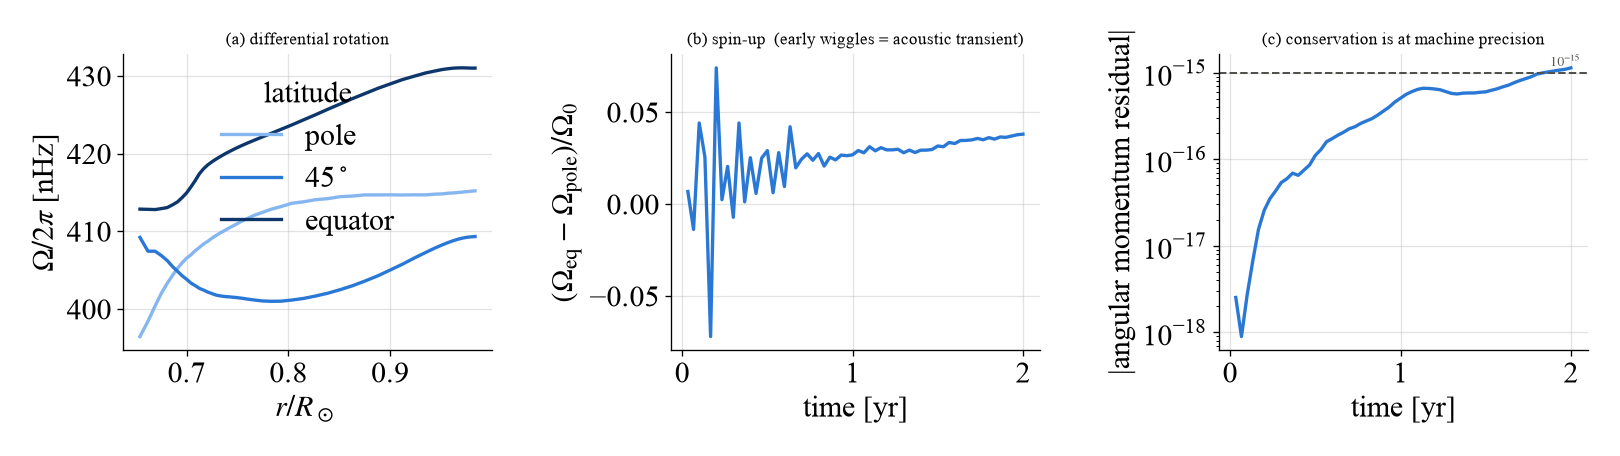
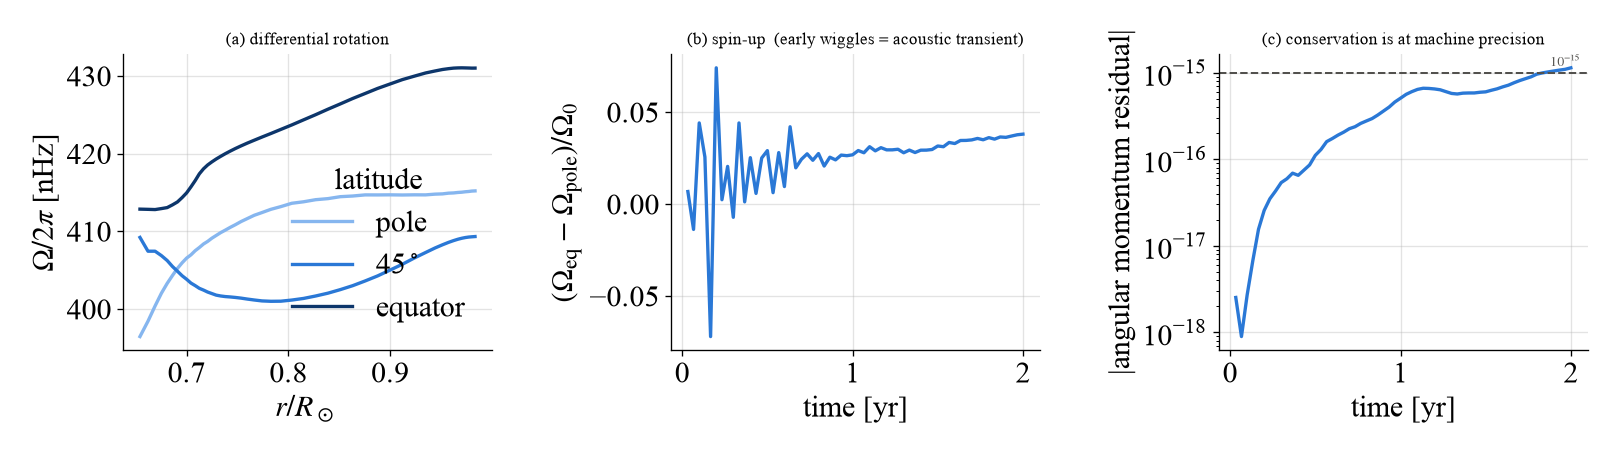
quickstart の図をドキュメントに入れ、run_paris の位置づけを明記した
- tutorial_rempel.rst に quickstart の図を貼り、**これらのスクリプトは
  pip install されるパッケージに含まれない** (clone が要る) ことを明記
- quickstart の (a) を凡例から直接ラベルに変えた (系列 4 つ以下なら
  直接ラベルの方が読みやすく、凡例が曲線と重なる問題も消える)
- run_paris/README.md に「名前の由来と、いずれ改名したいこと」「clone が
  要ること」「投入先はそのつど load と誰の何が走っているかを見て決める
  こと」を追記

Claude-Session: https://claude.ai/code/session_01W9ZMQt1bydtEYJ1n9oEQBY

diff --git a/examples/rempel2006/quickstart.py b/examples/rempel2006/quickstart.py
@@ -122,12 +122,16 @@ def _plot(outdir, rr, th, sol, cfg, h, m, grid):
     om = (cfg.om0 + sol.om1[m:grid.ixg - m, m:grid.jxg - m])/(2*np.pi)*1e9
     fig, ax = plt.subplots(1, 3, figsize=(13.5, 3.8))
 
+    # 系列が 4 つ以下なら凡例より**直接ラベル**の方が読みやすい。
     for (j, lab), c in zip(((0, 'pole'), (len(th)//2, r'45$^\circ$'),
                             (len(th) - 1, 'equator')), blues):
-        ax[0].plot(rr, om[:, j], color=c, label=lab, lw=2)
+        ax[0].plot(rr, om[:, j], color=c, lw=2)
+        ax[0].annotate(lab, xy=(rr[-1], om[-1, j]), xytext=(4, 0),
+                       textcoords='offset points', color=c, fontsize=9,
+                       fontweight='bold', va='center', clip_on=False)
+    ax[0].set_xlim(rr[0], rr[-1] + 0.10*(rr[-1] - rr[0]))
     ax[0].set_xlabel(r'$r/R_\odot$'); ax[0].set_ylabel(r'$\Omega/2\pi$ [nHz]')
-    ax[0].set_title('(a) differential rotation')
-    ax[0].legend(frameon=False, title='latitude', loc='lower right')
+    ax[0].set_title('(a) differential rotation by latitude')
 
     ax[1].plot(h[:, 0], h[:, 1], color=blues[1], lw=2)
     ax[1].set_xlabel('time [yr]')

diff --git a/run_paris/README.md b/run_paris/README.md
@@ -1,11 +1,33 @@
 # run_paris — Rempel 2006 再現ランの投入と測定
 
-paris (AMD EPYC 9354, 64 コア) で走らせるための一式。
-`/scr/a000` は boston と共有だが `/home` は別なので、python は
-`/scr/a000/c0234hotta/venv-paris/bin/python` を使い、投入時に
+> **名前について**: 当初 paris というホストで走らせるための一式だったが、
+> いまはホストに依存しない (絶対パスと `PYTHONPATH` だけ)。共同利用では
+> 紛らわしいので、いずれ `runs/` などに改名したい。
+>
+> **これらはリポジトリのスクリプトで、`pip install` されるパッケージには
+> 含まれない。** 使うにはリポジトリを clone すること。パッケージ本体
+> (`import S2MFD`) だけでも同じことはできる — スクリプトはその使い方の例。
+>
+> 手順の説明はドキュメントの
+> [Rempel (2006) を再現する](https://is-isee.github.io/S2MFD/main/tutorial_rempel.html)
+> にある。
+
+
+## この環境での使い方 (堀田研)
+
+`/scr/a000` は paris / boston / astana で共有だが `/home` は別なので、
+python は `/scr/a000/c0234hotta/venv-paris/bin/python` を使い、投入時に
 `cd /scr/a000/c0234hotta/Repository/S2MFD` と
 `PYTHONPATH=/scr/a000/c0234hotta/Repository/S2MFD` が要る
 (S2MFD は pip install されていない)。ssh の既定 cwd は HOME。
+
+**投入先はそのつど決める。** ルール化せず、投入前に
+
+    ssh <host> "uptime; ps -eo user:20,nlwp,etime,args --sort=-nlwp | head"
+
+で load と**誰の何が走っているか**を見る (`ps` はユーザ名を切り詰めるので
+`user:20` と幅を指定する)。astana は共有ファイルサーバでもあり、
+ほかの解析が走っていることが多い。
 
 ## ドライバ
 

diff --git a/doc/source/tutorial_rempel.rst b/doc/source/tutorial_rempel.rst
@@ -23,9 +23,23 @@ Rempel (2006) を再現する
 
 を表示して図を保存する。**実測 5 分** (最初の 1 回は numba の JIT を含む)。
 
+.. figure:: _static/figures/quickstart.png
+   :width: 100%
+
+   ``quickstart.py`` が出す図。(a) 2 年ではまだ差動回転が育っていない。
+   (b) 最初の振動は音波の過渡。(c) **角運動量の残差が**
+   :math:`10^{-15}` **以下**\ 、つまり倍精度の丸め誤差の水準にある。
+
 .. important::
    この格子と年数では**論文値と合わないのが正しい**\ 。緩和は 108
    :math:`\times` 72 でも 40 年かかる。合わないことを確かめるのが目的。
+
+.. note::
+   ``run_paris/`` と ``examples/`` の各スクリプトは**リポジトリに入って
+   いるもので、pip でインストールされるパッケージには含まれない**\ 。
+   使うにはリポジトリを clone すること。パッケージ本体
+   (``import S2MFD``) だけでも同じことはできる —
+   スクリプトはその使い方の例でもある。
 
 
 1. 参照モデルを緩和させる
